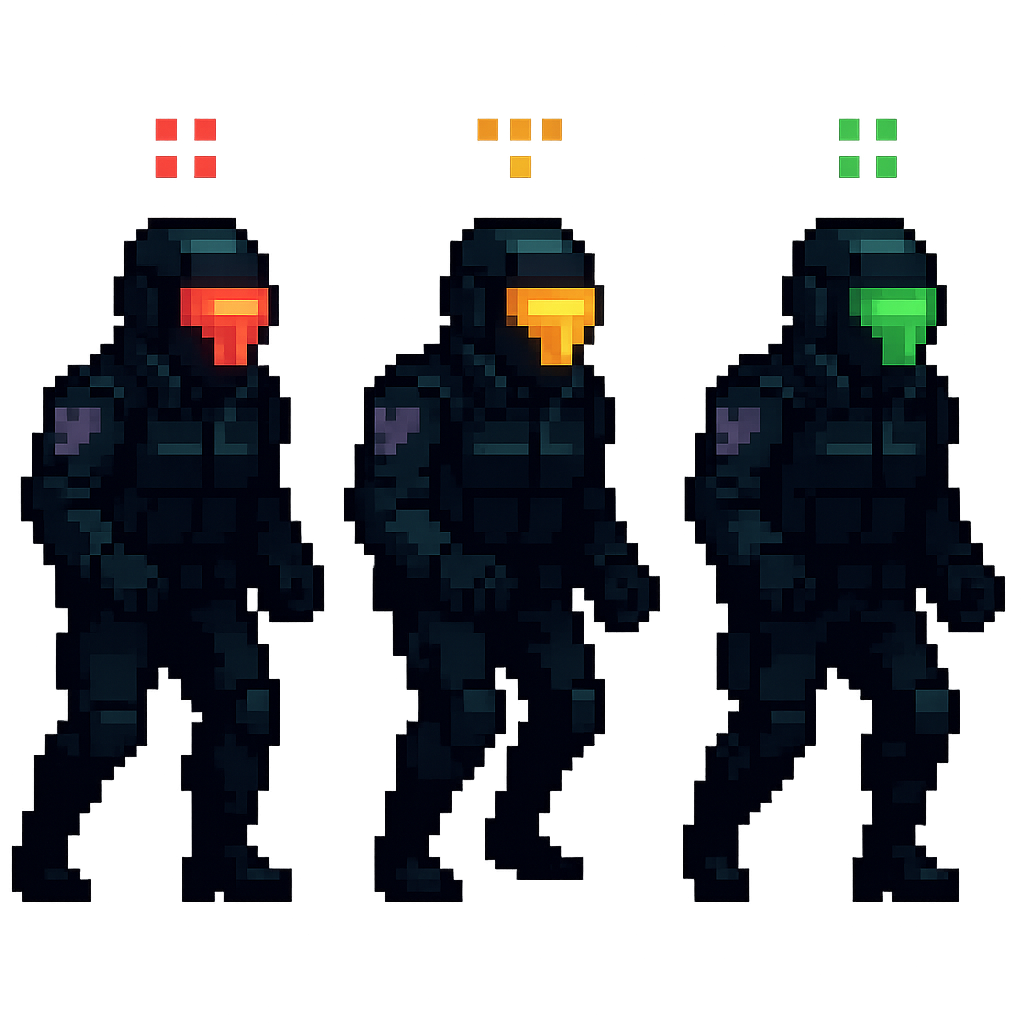
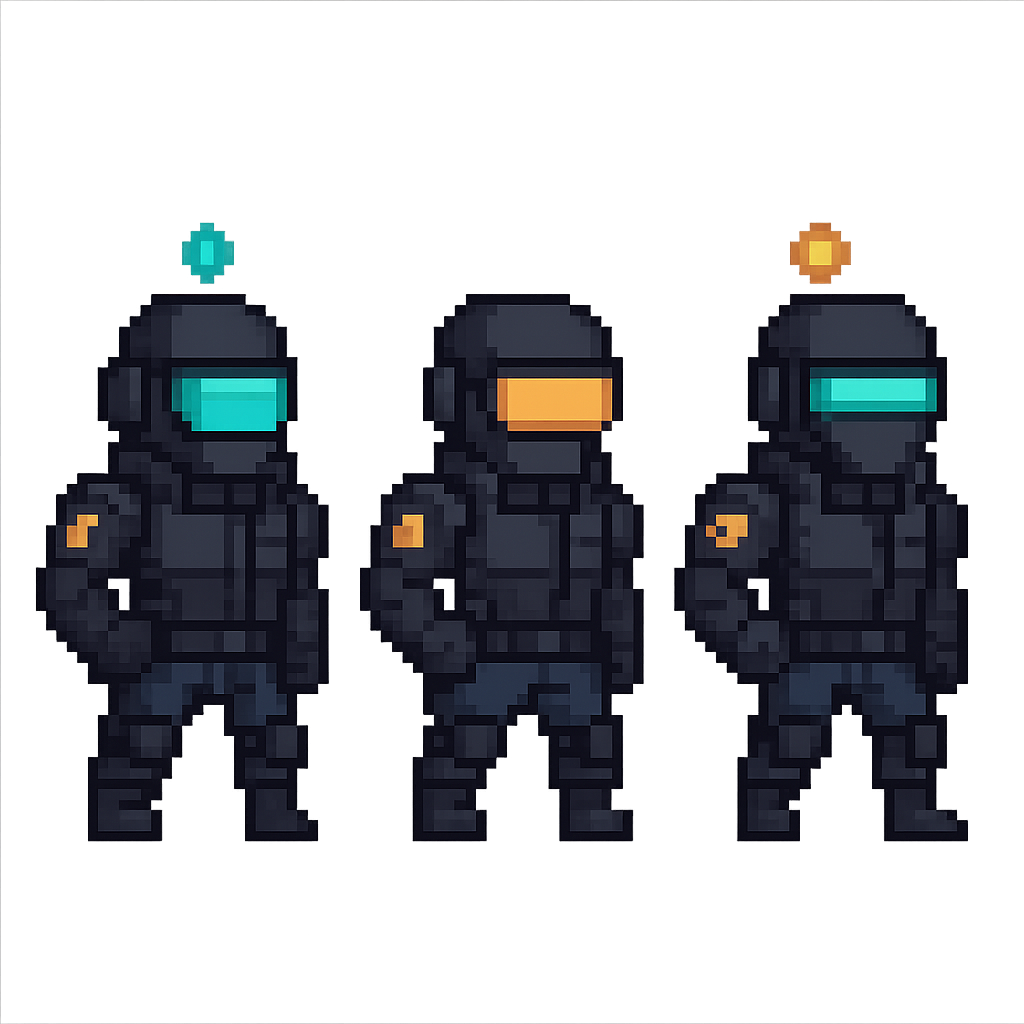
Autonomous dev cycle session-277-codex

diff --git a/docs/reports/autonomous-session-277-handoff.md b/docs/reports/autonomous-session-277-handoff.md
@@ -1,0 +1,28 @@
+# Autonomous Development Session #277 – AR-004 NPC Sprite Regeneration
+**Date**: 2025-11-09  
+**Sprint**: Sprint 8 – Final Polish & Production  
+**Duration**: ~45m  
+**Focus**: Refresh the AR-004 civilian and guard sprite packs, align manifest statuses, and document the asset automation pass.
+
+## Summary
+- Regenerated the AR-004 civilian and guard NPC sprite sheets via `mcp__generate-image__generate_image` to clear the lingering `generation-queued` pipeline state.
+- Updated `assets/images/requests.json` with fresh timestamps, status history entries, and `ai-generated` status to reflect the newly sourced art.
+- Synchronized `docs/assets/visual-asset-inventory.md` and `docs/plans/backlog.md` so asset documentation and backlog tracking capture the Session 277 automation sweep.
+
+## Deliverables
+- `assets/generated/images/ar-004/image-ar-004-npc-civilian-pack.png`
+- `assets/generated/images/ar-004/image-ar-004-npc-guard-pack.png`
+- `assets/images/requests.json`
+- `docs/assets/visual-asset-inventory.md`
+- `docs/plans/backlog.md`
+
+## Verification
+- Not run (asset sourcing only; no code or runtime changes)
+
+## Backlog & Knowledge Updates
+- Appended Session 277 completed work to **AR-050: Visual Asset Sourcing Pipeline**, documenting the regenerated NPC sprite packs.
+- Logged the automation sweep in `docs/assets/visual-asset-inventory.md` (Session 277 Updates) and bumped the backlog report to version 1.15 with a new maintenance summary.
+
+## Outstanding Work & Next Steps
+- Allow the asset automation monitors to ingest the refreshed AR-004 atlases; intervene only if telemetry flags regressions in upcoming sweeps.
+- Coordinate with gameplay teams if additional NPC faction variants are requested so prompts can be queued without reopening manual art workflows.

diff --git a/docs/plans/backlog.md b/docs/plans/backlog.md
@@ -5,8 +5,8 @@
 
 ## Document Overview
 
-**Version**: 1.14
-**Last Updated**: 2025-11-07 (Session 275 Luminari & Memory Keeper bespoke dialogue scenes)
+**Version**: 1.15
+**Last Updated**: 2025-11-09 (Session 277 AR-004 NPC sprite regeneration)
 **Status**: Active Development
 **Current Sprint**: Sprint 8 – Final Polish & Production
 **Team Structure**: Solo developer; no external approvals required for sign-off.
@@ -19,7 +19,7 @@
 - Tangential initiatives—such as net-new systems, auxiliary tooling, narrative review suites, or analytics dashboards—remain out of scope until roadmap deliverables ship.
 - Telemetry and performance management/testing initiatives are cancelled; do not schedule or create new work in these areas per the 2025-11-04 directive.
 
-### Current High-Priority Focus (Session 275)
+### Current High-Priority Focus (Session 277)
 
 | ID | Priority | Status | Summary | Next Steps |
 | --- | --- | --- | --- | --- |
@@ -35,6 +35,11 @@
 - Continue monitoring **AR-050** automation runs and respond only if telemetry flags anomalies.
 - Prepare planning notes so **M2-016** can close without blocking the interview mechanics sequence.
 - Maintain WIP ceiling adherence while staging the next faction narrative beats.
+
+### Session #277 Backlog Maintenance
+
+- Regenerated **AR-004** civilian and guard NPC sprite packs via `mcp__generate-image__generate_image`, cleared the `generation-queued` statuses in `assets/images/requests.json`, and updated **AR-050** completed work to reflect the refreshed automation pass.
+- Audited asset manifests to confirm no additional outstanding visual requests remain outside the automated pipeline, keeping active WIP within the mandated ceiling.
 
 ### Session #275 Backlog Maintenance
 

diff --git a/docs/assets/visual-asset-inventory.md b/docs/assets/visual-asset-inventory.md
@@ -247,6 +247,9 @@
 - Regenerated the AR-005 Neon District tileset (v3) via `mcp__generate-image__generate_image`, layering deeper wet-surface reflections, expanded holographic signage, and refreshed puddle animation highlights. Canonical atlas `assets/generated/images/ar-005/image-ar-005-tileset-neon-district.png` now points at the new render, with the prior pass archived as `image-ar-005-tileset-neon-district-v2.png` for reference.
 - Normalized the AR-001 and AR-002 manifest entries to the automation pipeline, clearing residual bespoke statuses so `image-ar-001-*` and `image-ar-002-generic-marker` now record `ai-generated` provenance aligned with their GPT-Image source assets.
 
+## Session 277 Updates
+- Regenerated the AR-004 civilian and guard NPC sprite packs via `mcp__generate-image__generate_image` (GPT-Image-1), updating manifest statuses to `ai-generated` and restaging the canonical atlases under `assets/generated/images/ar-004/` for hub/patrol encounter integration.
+
 ## Next Actions
 1. Monitor RenderOps feedback channels and import notes into `reports/art/renderops-feedback.json` if follow-up arrives for the 2025-10-31 packet.
 2. Follow `reports/art/placeholder-replacement-schedule.md` to drive weekly bespoke assignments and annotate `assets/images/requests.json` with source/licensing updates upon completion.
